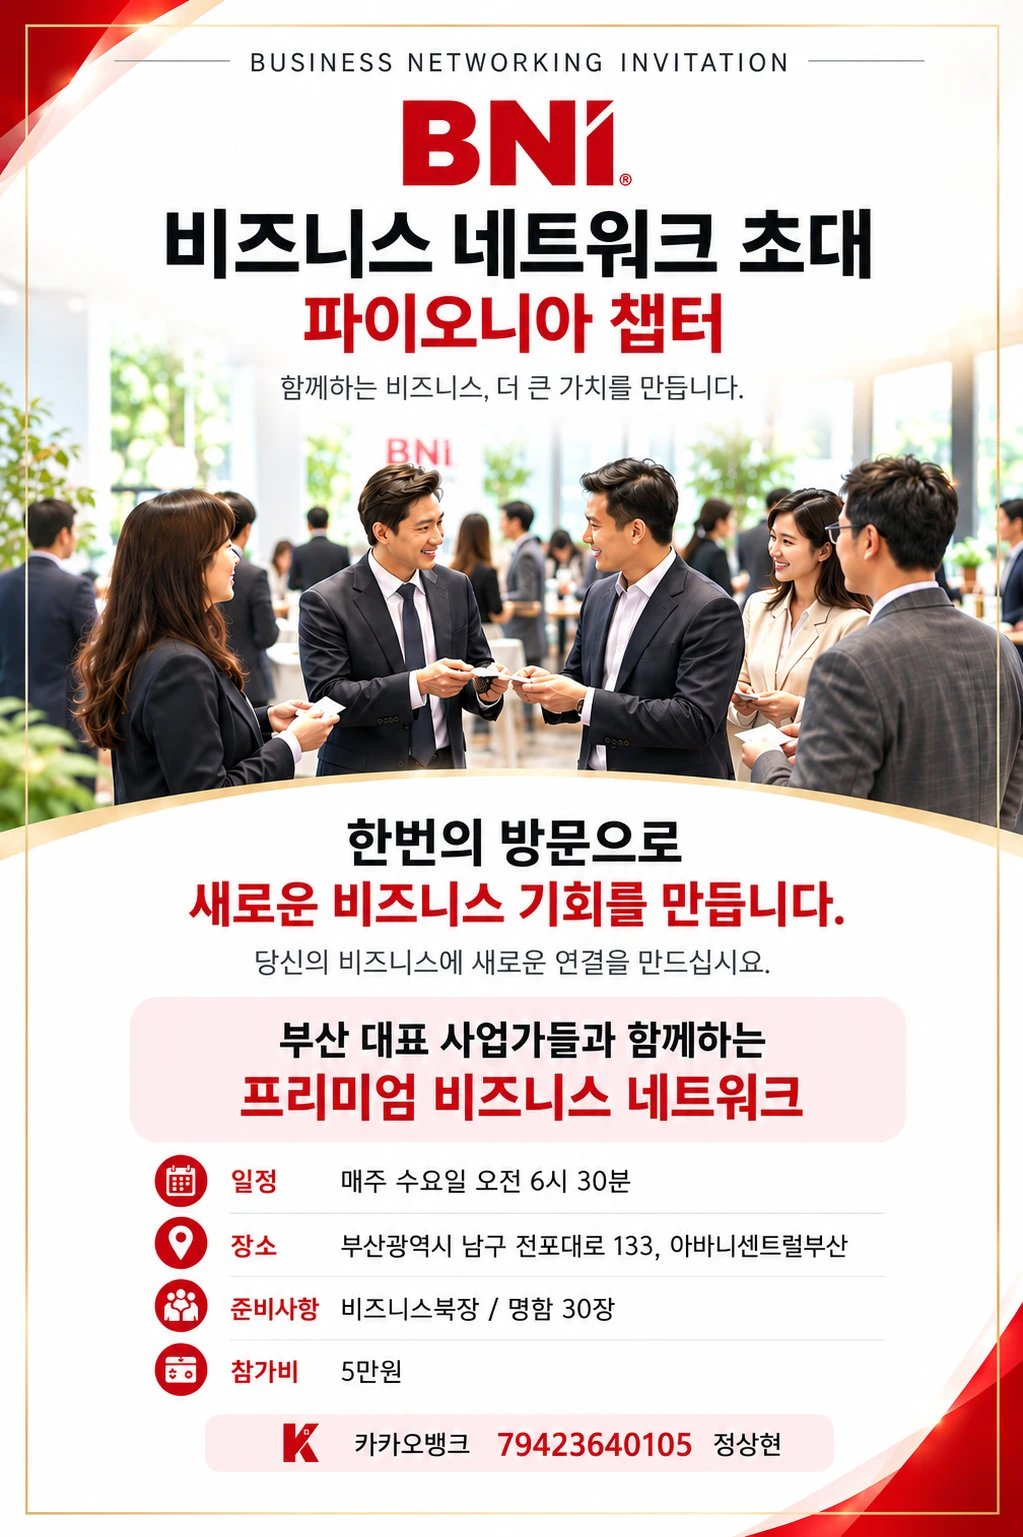
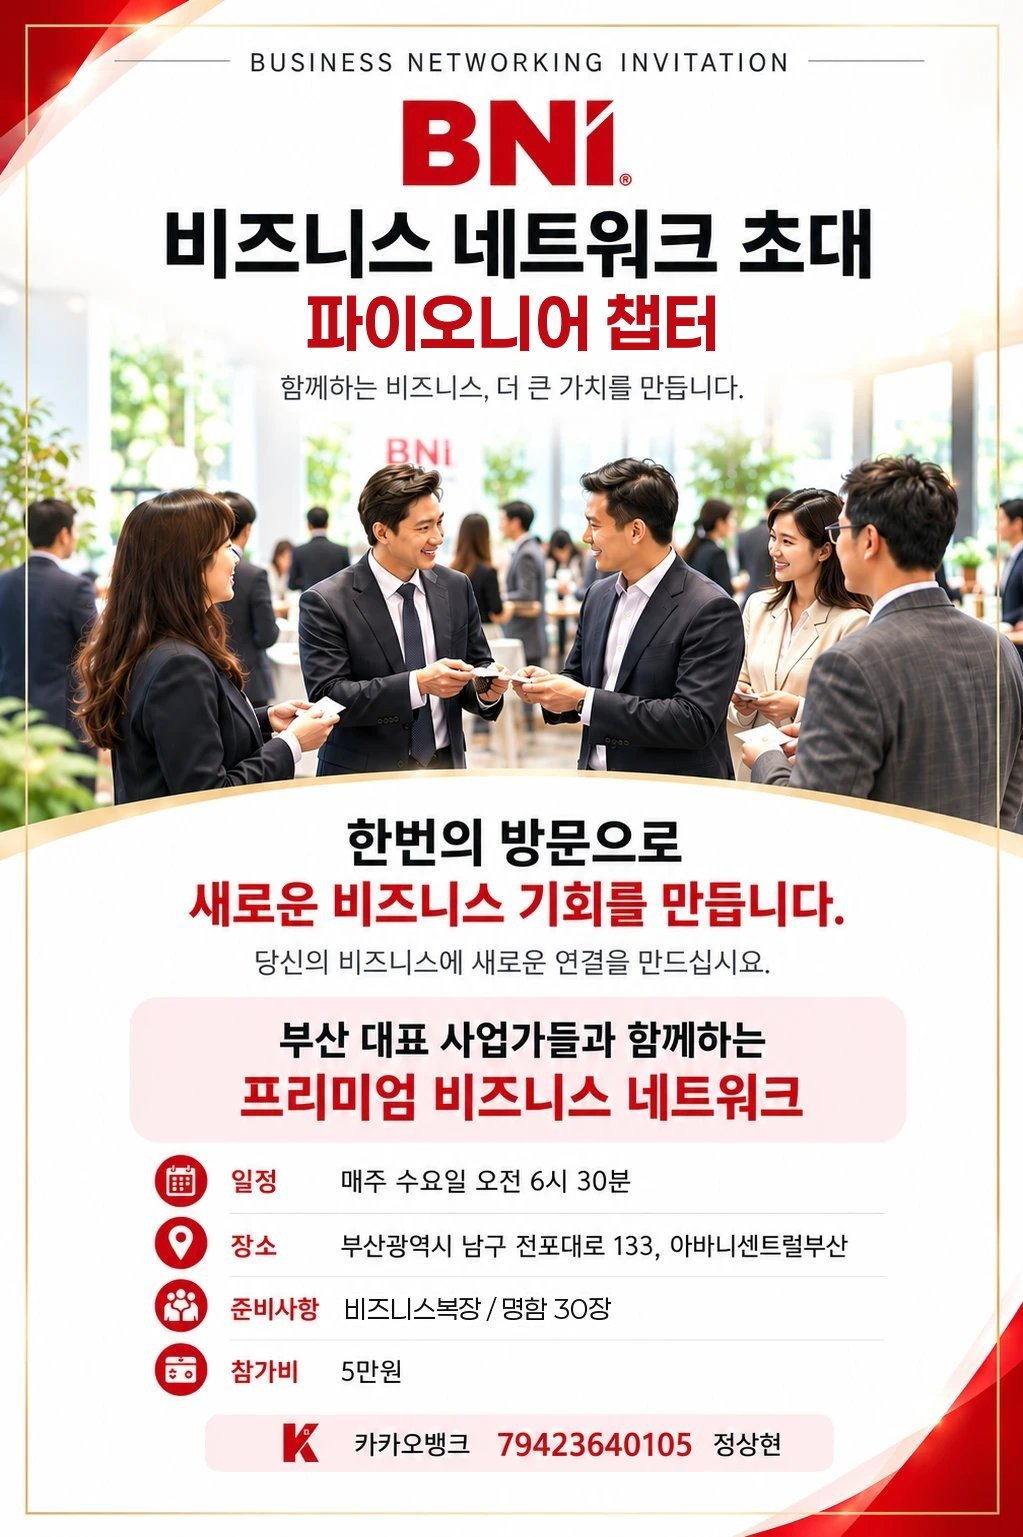
챕터 비즈홈 히어로 포스터 글자 수정: 파이오니아→파이오니어, 비즈니스북장→비즈니스복장
Claude-Session: https://claude.ai/code/session_01NPD1GvEQQ7MBbtH2rWvzLg

Changed region(s): [[0.303, 0.1874, 0.7273, 0.2498], [0.3333, 0.8432, 0.6061, 0.8744], [0.7273, 0.9993, 0.7576, 1.0]]

diff --git a/pioneer/index.html b/pioneer/index.html
@@ -369,7 +369,7 @@ footer .slogan-footer { font-size: 11px; color: var(--muted-dark); letter-spacin
 
 <!-- HERO -->
 <div class="hero">
-  <img class="hero-img" src="hero.jpg" alt="BNI 비즈니스 네트워크 초대 · 파이오니어 챕터">
+  <img class="hero-img" src="hero.jpg?v=2" alt="BNI 비즈니스 네트워크 초대 · 파이오니어 챕터">
 </div>
 <div class="hero-content">
   <div class="hero-badge">BUSAN 1호 PIONEER</div>
